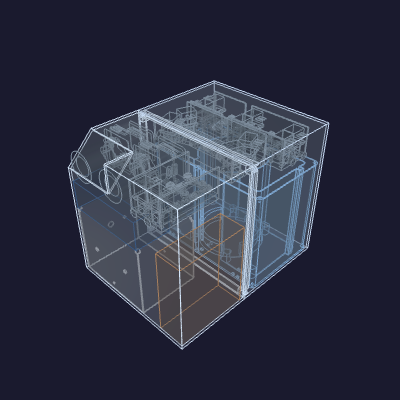
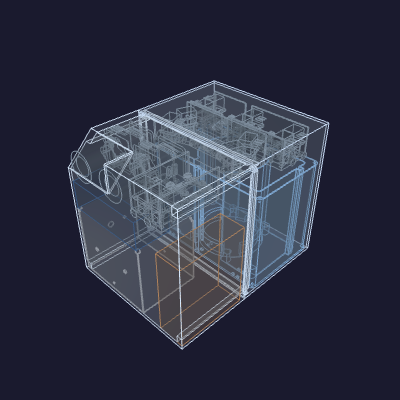
enclosure: make the front half printable -Y-face-down (no >45° overhang)
The front half prints on its -Y (front) face, so build is +Y and every
downward (-Y-facing) surface that isn't the bed is an overhang. Two changes
remove the flat -Y ceilings on the bosses and the lip:

- Boss pods now run full depth — from the rim back to the front wall's inner
  face (iy0) — instead of stopping at the lip. Each is a solid corner rib that
  grows straight up from the front wall: no -Y overhang. The display facet is
  re-cut after the pods so the top-front-left pod is trimmed to its 45° plane
  rather than poking through it.

- The lip's -Y shoulder is now a 45° frame bevel (the cavity mouth flares out
  to the outer over one wall) instead of a flat downward ring.

Verified: the only down-faces steeper-than-horizontal are exactly 45° (the four
lip bevels + the two facet planes); the former -1.0 (flat-ceiling) faces are
gone. Single solid each half, front ∩ back = 0, facet still 118.5 x 81, both
fit the bed, cold core clear. (_report_facet now restricts to the facet region
so it ignores the lip's +Z bevel, which shares the facet normal.)

Remaining minor: the M3 heat-set pocket is a small horizontal blind hole, so
its ceiling is a steep arc; the screw bore itself is open +Y (the channel) so
it is fine. Left as-is pending your call (teardrop vs. press-in reshaping).

diff --git a/hardware/printed-parts/enclosure/enclosure/enclosure.py b/hardware/printed-parts/enclosure/enclosure/enclosure.py
@@ -149,6 +149,16 @@ def _facet_x_slab(outer, extent):
     return _ybox(ox0, ox0 + display_facet_x, -2 * extent, 2 * extent, -2 * extent, 2 * extent)
 
 
+def _facet_wedge(outer):
+    """The solid removed to cut the display facet — the +normal half-space in
+    the facet's lateral window. Re-cut after the corner pods so they too are
+    chamfered to the facet plane rather than poking through it."""
+    ox0, ox1, oy0, oy1, oz0, oz1 = outer
+    a, normal, origin, dy, dz = _facet_geom(outer)
+    extent = max(ox1 - ox0, oy1 - oy0, oz1 - oz0) + 100.0
+    return _halfspace(origin, normal, extent).intersect(_facet_x_slab(outer, extent))
+
+
 def _shell_with_facet(inner, outer):
     """Hollow box with the 45° facet as a SOLID `wall`-thick surface: chamfer
     the outer box, and hold the cavity one wall back from the facet plane."""
@@ -157,17 +167,13 @@ def _shell_with_facet(inner, outer):
     a, normal, origin, dy, dz = _facet_geom(outer)
     extent = max(ox1 - ox0, oy1 - oy0, oz1 - oz0) + 100.0
 
-    outer_box = _ybox(ox0, ox1, oy0, oy1, oz0, oz1)
     inner_box = _ybox(ix0, ix1, iy0, iy1, iz0, iz1)
-    x_slab = _facet_x_slab(outer, extent)
-
-    wedge = _halfspace(origin, normal, extent).intersect(x_slab)
-    outer_chamfered = outer_box.cut(wedge)
+    outer_chamfered = _ybox(ox0, ox1, oy0, oy1, oz0, oz1).cut(_facet_wedge(outer))
 
     back_origin = (origin[0] - wall * normal[0],
                    origin[1] - wall * normal[1],
                    origin[2] - wall * normal[2])
-    keepout = _halfspace(back_origin, normal, extent).intersect(x_slab)
+    keepout = _halfspace(back_origin, normal, extent).intersect(_facet_x_slab(outer, extent))
     inner_clipped = inner_box.cut(keepout)
 
     return cq.Workplane(obj=outer_chamfered.cut(inner_clipped))
@@ -228,16 +234,17 @@ def _back_plug(x_ext, sx, z_boss, y_boss):
 
 
 def _front_pod(x_in, x_ext, sx, z_boss, sz, y_joint, inner):
-    """FRONT socket pod (solid): a corner block bounded by the faces it mates —
-    in Y the lip's −Y shoulder face to the rim, in X the side wall to the cap, in
-    Z the bore out to the floor/ceiling — so it is one piece with the side wall,
-    the ±Z wall, and the lip, flush with all of them (no proud ledges). Bore /
-    heat-set / channel are cut afterwards."""
+    """FRONT socket pod (solid): a corner rib bounded by the faces it mates — in
+    Y from the front wall's inner face (iy0) all the way to the rim, in X the
+    side wall to the cap, in Z the bore out to the floor/ceiling. Running full
+    depth to the front wall, it has no −Y overhang when the front half prints
+    −Y-down — it grows straight up from the wall. Bore / heat-set / channel are
+    cut afterwards; the facet trims the top-front-left pod back to its plane."""
     ix0, ix1, iy0, iy1, iz0, iz1 = inner
     _xs, _xt, _xh, x_cap = _boss_x(x_ext, sx)
     xa, xb = sorted((x_in, x_cap))
     za, zb = (iz0, z_boss + socket_r) if sz > 0 else (z_boss - socket_r, iz1)
-    return _ybox(xa, xb, y_joint - wall, y_joint + lip_len, za, zb)
+    return _ybox(xa, xb, iy0, y_joint + lip_len, za, zb)
 
 
 def _front_cuts(x_in, x_ext, sx, z_boss, y_boss, y_joint):
@@ -271,13 +278,26 @@ def _front_lip(inner, y_joint):
     is flush with the body's inner wall — one solid with the body, nothing
     shaved — telescoping +Y into the back half and mating its inner wall. It runs
     one `wall` back into the body cavity (the fusion shoulder / telescoping stop)
-    and forward over the overlap to the rim, at a single inset throughout (no
-    inner ledge, no proud rabbet)."""
+    and forward over the overlap to the rim. Its −Y end is a 45° frame bevel (the
+    cavity mouth flares out to the outer over one wall), not a flat downward
+    ring, so it prints with no steeper-than-45° overhang −Y-down."""
     ix0, ix1, iy0, iy1, iz0, iz1 = inner
     y0, y1 = y_joint - wall, y_joint + lip_len
-    return _ybox(ix0, ix1, y0, y1, iz0, iz1).cut(
-        _ybox(ix0 + wall, ix1 - wall, y0 - 1.0, y1 + 1.0, iz0 + wall, iz1 - wall)
+    outer = _ybox(ix0, ix1, y0, y1, iz0, iz1)
+    # Cavity cutter: a 45° flare at the −Y end (mouth widens from the inner
+    # rectangle out to the outer over one wall in Y), then the straight inner
+    # box. Subtracting it bevels the lip's −Y inner edge into the ramp.
+    cx, cz = (ix0 + ix1) / 2.0, (iz0 + iz1) / 2.0
+    flare = (
+        cq.Workplane(cq.Plane(origin=(cx, y0, cz), xDir=(1, 0, 0), normal=(0, 1, 0)))
+        .rect(ix1 - ix0, iz1 - iz0)
+        .workplane(offset=wall)
+        .rect((ix1 - ix0) - 2.0 * wall, (iz1 - iz0) - 2.0 * wall)
+        .loft(combine=True)
+        .val()
     )
+    inner_box = _ybox(ix0 + wall, ix1 - wall, y0 + wall, y1 + 1.0, iz0 + wall, iz1 - wall)
+    return outer.cut(flare.fuse(inner_box))
 
 
 # Boss Y position — one value feeds the plug AND the socket, so they are
@@ -295,6 +315,8 @@ def build_front_half():
     yb = _y_boss(y_joint)
     for x_in, x_ext, sx, z_boss, sz in _bosses(inner):
         front = front.fuse(_front_pod(x_in, x_ext, sx, z_boss, sz, y_joint, inner))
+    # The full-depth pods can poke into the display facet; trim them to its plane.
+    front = front.cut(_facet_wedge(outer))
     for x_in, x_ext, sx, z_boss, _sz in _bosses(inner):
         front = front.cut(_front_cuts(x_in, x_ext, sx, z_boss, yb, y_joint))
     return cq.Workplane(obj=front)
@@ -317,13 +339,18 @@ def build_back_half():
 def _report_facet(half):
     a = math.radians(display_facet_angle_deg)
     target = cq.Vector(0.0, -math.sin(a), math.cos(a))
+    # The lip's +Z bevel ramp shares this normal; restrict to the facet's region
+    # (the front of the part) so only the display facet is measured.
+    _i, outer, _y, _c = _dims()
+    _a, _n, _o, dy, _dz = _facet_geom(outer)
+    y_hi = outer[2] + dy + 5.0
     boxes = []
     for f in half.val().Faces():
         try:
             n = f.normalAt()
         except Exception:
             continue
-        if (n - target).Length < 1e-3:
+        if (n - target).Length < 1e-3 and f.Center().y < y_hi:
             boxes.append(f.BoundingBox())
     if not boxes:
         print("  display facet:    NOT FOUND")
